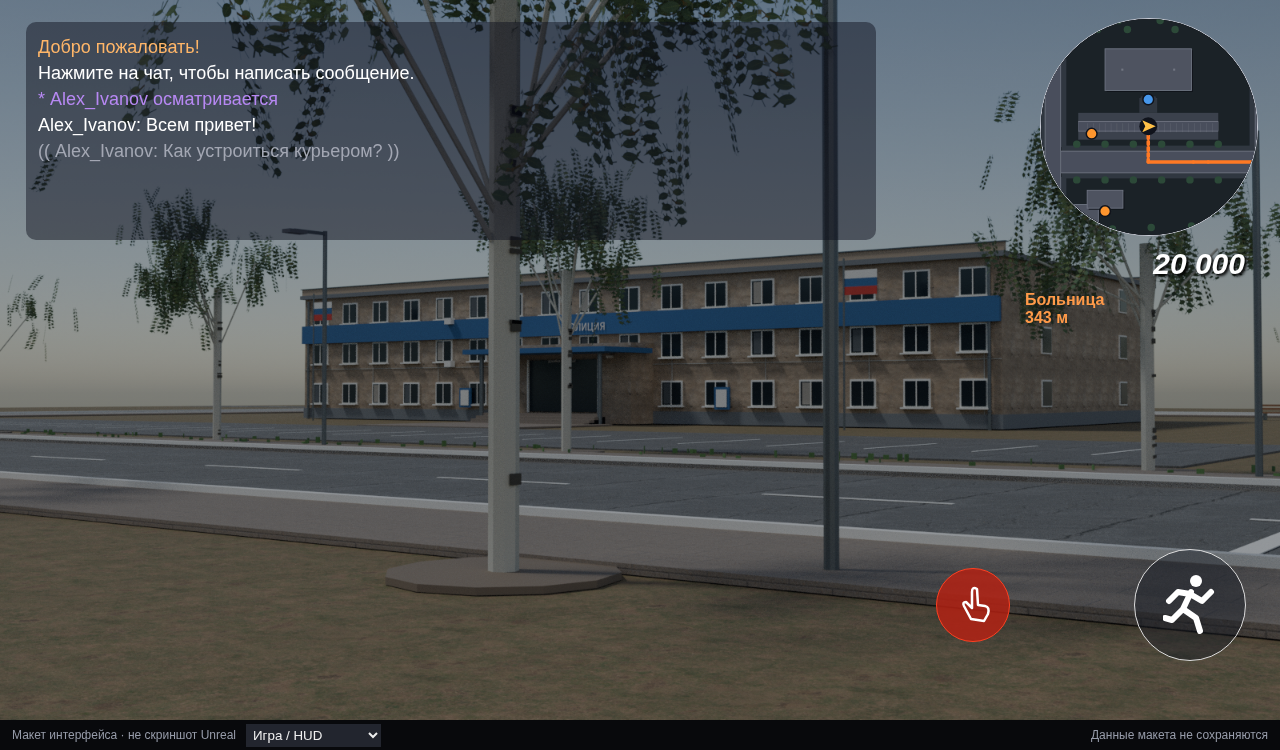
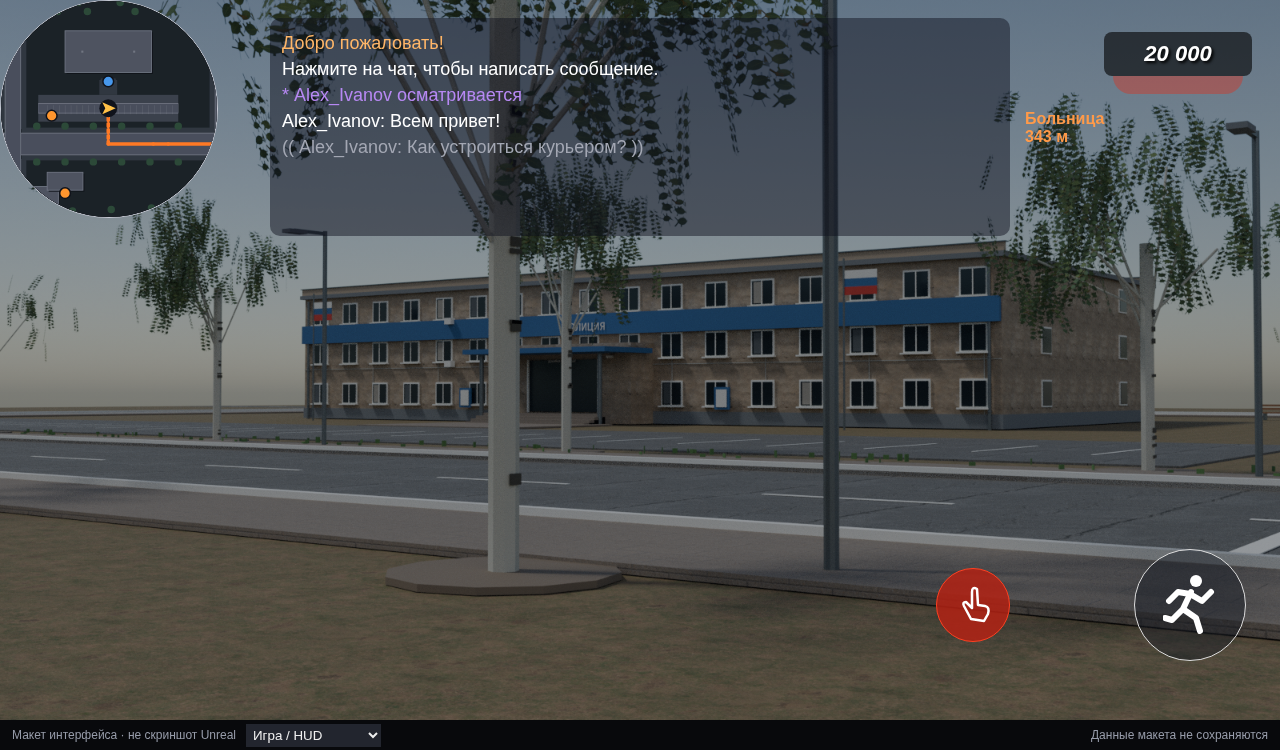
Tighten city steering and reposition HUD and vehicle controls

diff --git a/Assets/UI/InterfacePreview.html b/Assets/UI/InterfacePreview.html
@@ -1,5 +1,6 @@
 <!doctype html><html lang="ru"><meta charset="utf-8"><title>Макет интерфейса</title><style>
 *{box-sizing:border-box}body{margin:0;background:#090a0e;color:white;font:18px Arial,sans-serif;overflow:hidden}button,input{font:inherit}button{cursor:pointer;border:0;color:white;border-radius:10px;background:#292c34;padding:15px 22px;font-weight:700}button:hover{filter:brightness(1.16)}button:active{transform:translateY(1px)}button.primary{background:linear-gradient(105deg,#fb3214,#df1c09)}button:disabled{cursor:default;filter:brightness(.45)}button.selected{box-shadow:inset 0 0 0 2px #f23819;background:#49241f}input{display:block;width:100%;height:76px;margin:0 0 16px;padding:17px 22px;border:1px solid #777a82;border-radius:9px;background:#1c1e23f5;color:white;outline:0;font-size:27px}input:focus{border-color:#f33419}input::placeholder{color:#a2a4aa}.screen{width:1280px;height:720px;position:absolute;transform-origin:top left;overflow:hidden;background:#11151a}.art{background:linear-gradient(#0002,#0002),url('../Branding/CityLiveLoginCity.png') center/cover}.accountart{background:linear-gradient(#0002,#0002),url('../Branding/CityLiveAccountCity.png') center/cover}.spawnart{background:linear-gradient(#050608eb,#050608eb),url('../Branding/CityLiveLoginCity.png') center/cover}.world{background:linear-gradient(#070c1538,#0a0d1822),url('../Maps/PoliceDistrictRealistic/StreetRealistic.png') center/cover}h1{margin:0;font-size:34px}.pageheading{position:absolute;left:52px;top:40px}.identity{position:absolute;width:430px;left:52px;top:276px}.next{position:absolute;right:52px;bottom:44px;width:300px;height:72px;font-size:26px}.account{position:absolute;right:82px;top:218px;width:500px}.account.returning{top:265px}.passwordfield{position:relative}.passwordfield input{padding-right:78px}.eye{position:absolute;right:10px;top:15px;padding:8px 9px;height:46px;display:grid;place-items:center}.account .submit{width:100%;height:72px;margin-top:5px;font-size:26px}.back{display:block;margin:17px auto 0;font-size:17px;padding:8px 16px;font-weight:400}.nick{position:absolute;right:82px;top:156px;width:500px;font-size:24px;font-weight:700}.error{font-size:19px;color:#ff8d77;line-height:1.4;margin-top:18px}.identity .error{position:absolute;top:190px;width:430px}.spawnheading{font-size:34px}.spawncards{position:absolute;left:52px;right:52px;top:189px;height:342px;display:flex;gap:14px}.spawncard{position:relative;flex:1;min-width:0;border:3px solid #535660;border-radius:6px;overflow:hidden;background-size:cover;background-position:center;padding:0;display:grid;place-items:center}.spawncard:after{content:'';position:absolute;inset:0;background:#0007}.spawncard b{position:relative;z-index:1;font-size:23px}.spawncard.selected{border-color:#f33419;box-shadow:0 0 24px #f3341933}.spawnenter{position:absolute;bottom:44px;left:50%;transform:translateX(-50%);width:270px;height:72px;font-size:26px}.mini{position:absolute;top:18px;right:22px;width:218px;height:218px;border:1.5px solid #c9ccd6;border-radius:50%;overflow:hidden;background:#11141a;cursor:pointer}.mini svg{width:100%;height:100%}.chatbox{position:absolute;left:26px;top:22px;width:850px;height:218px;padding:12px;background:#0d101b77;border-radius:10px;font-size:18px;line-height:1.45;cursor:pointer;overflow:hidden}.chatbox .sys{color:#ffb668}.balance{position:absolute;right:35px;top:247px;font-size:30px;font-style:italic;font-weight:800;text-shadow:2px 2px 3px #000}.navsmall{position:absolute;right:30px;top:291px;width:225px;font-size:16px;color:#ff9a49;font-weight:bold}.round{position:absolute;border:1.5px solid #ddd;border-radius:50%;width:112px;height:112px;display:grid;place-items:center;background:#171b2470}.run{right:34px;bottom:59px}.interact{right:calc(24% - 37px);bottom:78px;width:74px;height:74px;border-color:#ff4021;background:#b22214da}.interact svg{width:34px;height:40px}.panel{position:absolute;padding:26px;border-radius:12px;background:#17191ff5}.gps{width:560px;height:650px;left:calc(50% - 280px);top:35px}.gps h1{font-size:29px;margin-bottom:20px}.gps .rows{max-height:490px;overflow:auto;margin:10px 0}.gps .rows.destinations{height:310px}.rows button{display:block;width:100%;padding:14px 16px;text-align:left;margin:8px 0;font-size:21px}.gps footer{display:flex;gap:10px;margin-top:14px}.gps footer button{flex:1;font-size:18px}.rows::-webkit-scrollbar{width:7px}.rows::-webkit-scrollbar-thumb{background:#e73319;border-radius:4px}.darken{position:absolute;inset:0;background:#03050ab3}.close{position:absolute;right:28px;top:24px;font-size:27px;padding:8px 20px;z-index:8}.map{position:absolute;inset:0;background:#11151b}.map svg{width:100%;height:100%;touch-action:none}.maptitle{position:absolute;left:32px;top:26px;font-weight:bold;font-size:24px;pointer-events:none}.mapinfo{position:absolute;right:28px;bottom:28px;width:370px;padding:18px;border-radius:12px;background:#17191ff7}.mapinfo h2{font-size:22px;margin:0 0 12px}.mapinfo p{color:#ff7924;font-size:16px}.mapinfo button{width:100%;font-size:18px}.legendtoggle{position:absolute;left:30px;top:78px;font-size:17px}.opengps{position:absolute;left:30px;top:142px;font-size:20px}.legend{position:absolute;bottom:28px;left:28px;background:#17191ff7;border-radius:12px;padding:18px;font-size:15px;line-height:1.8;display:none}.keyboard{position:absolute;left:0;right:0;bottom:0;height:330px;background:#17191ff2;border-radius:0;padding:10px;display:grid;grid-template-rows:repeat(4,1fr);gap:2px}.keyrow{display:flex;gap:6px}.key{flex:1;border-radius:9px;font-size:22px;padding:3px;min-width:0}.channels{position:absolute;left:16px;right:300px;bottom:418px;display:flex;gap:8px;align-items:center}.channels button{font-size:16px;padding:14px 22px}.channels .history{margin-left:auto}.draft{position:absolute;left:12px;right:12px;bottom:340px;height:66px;background:#17191ff7;border-radius:12px;padding:14px 20px;font-size:27px;white-space:pre;overflow:hidden}.caret{color:#f33419}.chatview .close{left:900px;right:auto;top:22px}.chatview .round,.chatview .navsmall{display:none}.previewbar{position:fixed;height:30px;left:0;right:0;bottom:0;background:#08090c;padding:4px 12px;font:12px Arial;display:flex;align-items:center;gap:10px;color:#969ba9}.previewbar select{background:#22252e;color:#eee;border:0;padding:3px}.previewbar span{margin-left:auto}svg text{font-family:Arial,sans-serif;pointer-events:none}svg .poi{cursor:pointer}
+.mini{left:0;right:auto;top:0}.chatbox{left:50%;transform:translateX(-50%);top:18px;width:740px}.balance{right:28px;top:32px;width:148px;padding:9px 14px;text-align:center;font-size:22px;background:#0009;border-radius:8px}.balance:after{content:'';position:absolute;left:9px;right:9px;top:100%;height:18px;border-radius:0 0 70px 70px;background:#e52b1560}.navsmall{top:110px}.chatview .close{left:auto;right:28px;top:122px}
 </style><main class="screen" id="screen"></main><nav class="previewbar">Макет интерфейса · не скриншот Unreal <select id="scene"><option value="login">Вход</option><option value="password">Регистрация</option><option value="return">Авторизация</option><option value="spawn">Место появления</option><option value="hud">Игра / HUD</option><option value="gps">GPS</option><option value="map">Карта</option><option value="chat">Клавиатура</option></select><span>Данные макета не сохраняются</span></nav><script>
[1 lines of base64/hex data omitted]
 const screen=document.querySelector('#screen'),sceneSelect=document.querySelector('#scene');

diff --git a/Scripts/InterfacePreviewTemplate.html b/Scripts/InterfacePreviewTemplate.html
@@ -1,5 +1,6 @@
 <!doctype html><html lang="ru"><meta charset="utf-8"><title>Макет интерфейса</title><style>
 *{box-sizing:border-box}body{margin:0;background:#090a0e;color:white;font:18px Arial,sans-serif;overflow:hidden}button,input{font:inherit}button{cursor:pointer;border:0;color:white;border-radius:10px;background:#292c34;padding:15px 22px;font-weight:700}button:hover{filter:brightness(1.16)}button:active{transform:translateY(1px)}button.primary{background:linear-gradient(105deg,#fb3214,#df1c09)}button:disabled{cursor:default;filter:brightness(.45)}button.selected{box-shadow:inset 0 0 0 2px #f23819;background:#49241f}input{display:block;width:100%;height:76px;margin:0 0 16px;padding:17px 22px;border:1px solid #777a82;border-radius:9px;background:#1c1e23f5;color:white;outline:0;font-size:27px}input:focus{border-color:#f33419}input::placeholder{color:#a2a4aa}.screen{width:1280px;height:720px;position:absolute;transform-origin:top left;overflow:hidden;background:#11151a}.art{background:linear-gradient(#0002,#0002),url('../Branding/CityLiveLoginCity.png') center/cover}.accountart{background:linear-gradient(#0002,#0002),url('../Branding/CityLiveAccountCity.png') center/cover}.spawnart{background:linear-gradient(#050608eb,#050608eb),url('../Branding/CityLiveLoginCity.png') center/cover}.world{background:linear-gradient(#070c1538,#0a0d1822),url('../Maps/PoliceDistrictRealistic/StreetRealistic.png') center/cover}h1{margin:0;font-size:34px}.pageheading{position:absolute;left:52px;top:40px}.identity{position:absolute;width:430px;left:52px;top:276px}.next{position:absolute;right:52px;bottom:44px;width:300px;height:72px;font-size:26px}.account{position:absolute;right:82px;top:218px;width:500px}.account.returning{top:265px}.passwordfield{position:relative}.passwordfield input{padding-right:78px}.eye{position:absolute;right:10px;top:15px;padding:8px 9px;height:46px;display:grid;place-items:center}.account .submit{width:100%;height:72px;margin-top:5px;font-size:26px}.back{display:block;margin:17px auto 0;font-size:17px;padding:8px 16px;font-weight:400}.nick{position:absolute;right:82px;top:156px;width:500px;font-size:24px;font-weight:700}.error{font-size:19px;color:#ff8d77;line-height:1.4;margin-top:18px}.identity .error{position:absolute;top:190px;width:430px}.spawnheading{font-size:34px}.spawncards{position:absolute;left:52px;right:52px;top:189px;height:342px;display:flex;gap:14px}.spawncard{position:relative;flex:1;min-width:0;border:3px solid #535660;border-radius:6px;overflow:hidden;background-size:cover;background-position:center;padding:0;display:grid;place-items:center}.spawncard:after{content:'';position:absolute;inset:0;background:#0007}.spawncard b{position:relative;z-index:1;font-size:23px}.spawncard.selected{border-color:#f33419;box-shadow:0 0 24px #f3341933}.spawnenter{position:absolute;bottom:44px;left:50%;transform:translateX(-50%);width:270px;height:72px;font-size:26px}.mini{position:absolute;top:18px;right:22px;width:218px;height:218px;border:1.5px solid #c9ccd6;border-radius:50%;overflow:hidden;background:#11141a;cursor:pointer}.mini svg{width:100%;height:100%}.chatbox{position:absolute;left:26px;top:22px;width:850px;height:218px;padding:12px;background:#0d101b77;border-radius:10px;font-size:18px;line-height:1.45;cursor:pointer;overflow:hidden}.chatbox .sys{color:#ffb668}.balance{position:absolute;right:35px;top:247px;font-size:30px;font-style:italic;font-weight:800;text-shadow:2px 2px 3px #000}.navsmall{position:absolute;right:30px;top:291px;width:225px;font-size:16px;color:#ff9a49;font-weight:bold}.round{position:absolute;border:1.5px solid #ddd;border-radius:50%;width:112px;height:112px;display:grid;place-items:center;background:#171b2470}.run{right:34px;bottom:59px}.interact{right:calc(24% - 37px);bottom:78px;width:74px;height:74px;border-color:#ff4021;background:#b22214da}.interact svg{width:34px;height:40px}.panel{position:absolute;padding:26px;border-radius:12px;background:#17191ff5}.gps{width:560px;height:650px;left:calc(50% - 280px);top:35px}.gps h1{font-size:29px;margin-bottom:20px}.gps .rows{max-height:490px;overflow:auto;margin:10px 0}.gps .rows.destinations{height:310px}.rows button{display:block;width:100%;padding:14px 16px;text-align:left;margin:8px 0;font-size:21px}.gps footer{display:flex;gap:10px;margin-top:14px}.gps footer button{flex:1;font-size:18px}.rows::-webkit-scrollbar{width:7px}.rows::-webkit-scrollbar-thumb{background:#e73319;border-radius:4px}.darken{position:absolute;inset:0;background:#03050ab3}.close{position:absolute;right:28px;top:24px;font-size:27px;padding:8px 20px;z-index:8}.map{position:absolute;inset:0;background:#11151b}.map svg{width:100%;height:100%;touch-action:none}.maptitle{position:absolute;left:32px;top:26px;font-weight:bold;font-size:24px;pointer-events:none}.mapinfo{position:absolute;right:28px;bottom:28px;width:370px;padding:18px;border-radius:12px;background:#17191ff7}.mapinfo h2{font-size:22px;margin:0 0 12px}.mapinfo p{color:#ff7924;font-size:16px}.mapinfo button{width:100%;font-size:18px}.legendtoggle{position:absolute;left:30px;top:78px;font-size:17px}.opengps{position:absolute;left:30px;top:142px;font-size:20px}.legend{position:absolute;bottom:28px;left:28px;background:#17191ff7;border-radius:12px;padding:18px;font-size:15px;line-height:1.8;display:none}.keyboard{position:absolute;left:0;right:0;bottom:0;height:330px;background:#17191ff2;border-radius:0;padding:10px;display:grid;grid-template-rows:repeat(4,1fr);gap:2px}.keyrow{display:flex;gap:6px}.key{flex:1;border-radius:9px;font-size:22px;padding:3px;min-width:0}.channels{position:absolute;left:16px;right:300px;bottom:418px;display:flex;gap:8px;align-items:center}.channels button{font-size:16px;padding:14px 22px}.channels .history{margin-left:auto}.draft{position:absolute;left:12px;right:12px;bottom:340px;height:66px;background:#17191ff7;border-radius:12px;padding:14px 20px;font-size:27px;white-space:pre;overflow:hidden}.caret{color:#f33419}.chatview .close{left:900px;right:auto;top:22px}.chatview .round,.chatview .navsmall{display:none}.previewbar{position:fixed;height:30px;left:0;right:0;bottom:0;background:#08090c;padding:4px 12px;font:12px Arial;display:flex;align-items:center;gap:10px;color:#969ba9}.previewbar select{background:#22252e;color:#eee;border:0;padding:3px}.previewbar span{margin-left:auto}svg text{font-family:Arial,sans-serif;pointer-events:none}svg .poi{cursor:pointer}
+.mini{left:0;right:auto;top:0}.chatbox{left:50%;transform:translateX(-50%);top:18px;width:740px}.balance{right:28px;top:32px;width:148px;padding:9px 14px;text-align:center;font-size:22px;background:#0009;border-radius:8px}.balance:after{content:'';position:absolute;left:9px;right:9px;top:100%;height:18px;border-radius:0 0 70px 70px;background:#e52b1560}.navsmall{top:110px}.chatview .close{left:auto;right:28px;top:122px}
 </style><main class="screen" id="screen"></main><nav class="previewbar">Макет интерфейса · не скриншот Unreal <select id="scene"><option value="login">Вход</option><option value="password">Регистрация</option><option value="return">Авторизация</option><option value="spawn">Место появления</option><option value="hud">Игра / HUD</option><option value="gps">GPS</option><option value="map">Карта</option><option value="chat">Клавиатура</option></select><span>Данные макета не сохраняются</span></nav><script>
 const DATA=__MAPDATA__,ROUTES=__ROUTES__;
 const screen=document.querySelector('#screen'),sceneSelect=document.querySelector('#scene');

diff --git a/Source/CityLiveRP/SCityHud.cpp b/Source/CityLiveRP/SCityHud.cpp
@@ -5,6 +5,7 @@
 #include "CityDistrictGameplayComponent.h"
 #include "CitySedan.h"
 #include "CityUiTheme.h"
+#include "SCityBalance.h"
 #include "Widgets/SOverlay.h"
 #include "Widgets/SBoxPanel.h"
 #include "Widgets/Layout/SBox.h"
@@ -23,18 +24,16 @@ void SCityHud::Construct(const FArguments& Args)
     ChildSlot[SNew(SScaleBox).Visibility(EVisibility::SelfHitTestInvisible).Stretch(EStretch::ScaleToFit)
         [SNew(SBox).Visibility(EVisibility::SelfHitTestInvisible).WidthOverride_Lambda([this](){return FOptionalSize(CityUi::CanvasWidth(GetCachedGeometry().GetLocalSize()));}).HeightOverride(720)
             [SNew(SOverlay).Visibility(EVisibility::SelfHitTestInvisible)
-                +SOverlay::Slot().HAlign(HAlign_Right).VAlign(VAlign_Top).Padding(0,18,22,0)
+                +SOverlay::Slot().HAlign(HAlign_Left).VAlign(VAlign_Top).Padding(0,0,0,0)
                 [SNew(SBox).WidthOverride(218).HeightOverride(218)[SNew(SCityMap).Controller(Controller.Get()).Mini(true)]]
-                +SOverlay::Slot().HAlign(HAlign_Left).VAlign(VAlign_Top).Padding(26,22,0,0)
-                [SNew(SBox).WidthOverride(850).HeightOverride(218).Clipping(EWidgetClipping::ClipToBounds)
+                +SOverlay::Slot().HAlign(HAlign_Center).VAlign(VAlign_Top).Padding(0,18,0,0)
+                [SNew(SBox).WidthOverride(740).HeightOverride(218).Clipping(EWidgetClipping::ClipToBounds)
                     [SNew(SButton).ButtonStyle(&ChatStyle).HAlign(HAlign_Left).VAlign(VAlign_Top)
                         .OnClicked_Lambda([this](){Controller->DistrictGameplay->OpenChat();return FReply::Handled();})
                         [SNew(SCityChatLog).District(Controller->DistrictGameplay.Get()).Lines(8).FontSize(18)]]]
-                +SOverlay::Slot().HAlign(HAlign_Right).VAlign(VAlign_Top).Padding(0,247,35,0)
-                [SNew(STextBlock).Visibility(EVisibility::HitTestInvisible).Font(FCoreStyle::GetDefaultFontStyle("BoldItalic",30))
-                    .ColorAndOpacity(FLinearColor::White).ShadowOffset(FVector2D(2,2)).ShadowColorAndOpacity(FLinearColor(0,0,0,.8f))
-                    .Text_Lambda([this](){return FText::FromString(CityUi::Money(Controller->GetBalance(),false));})]
-                +SOverlay::Slot().HAlign(HAlign_Right).VAlign(VAlign_Top).Padding(0,291,30,0)
+                +SOverlay::Slot().HAlign(HAlign_Right).VAlign(VAlign_Top).Padding(0,32,28,0)
+                [SNew(SCityBalance).Controller(Controller.Get())]
+                +SOverlay::Slot().HAlign(HAlign_Right).VAlign(VAlign_Top).Padding(0,110,30,0)
                 [SNew(SBox).WidthOverride(225)[SNew(STextBlock).Visibility(EVisibility::HitTestInvisible).AutoWrapText(true).ColorAndOpacity(CityUi::Orange()).Font(FCoreStyle::GetDefaultFontStyle("Bold",16))
                     .Text_Lambda([this](){return FText::FromString(Controller->DistrictGameplay->NavigationText());})]]
                 +SOverlay::Slot().HAlign(HAlign_Center).VAlign(VAlign_Bottom).Padding(0,0,0,24)

diff --git a/Source/CityLiveRP/SCityChatMenu.cpp b/Source/CityLiveRP/SCityChatMenu.cpp
@@ -5,6 +5,7 @@
 #include "CityDistrictGameplayComponent.h"
 #include "CityChatInput.h"
 #include "CityUiTheme.h"
+#include "SCityBalance.h"
 #include "Widgets/SBoxPanel.h"
 #include "Widgets/SOverlay.h"
 #include "Widgets/Layout/SBox.h"
@@ -60,16 +61,15 @@ void SCityV2Menu::ChatOverlay()
     ChatChannel=District->ChatChannel;HistoryIndex=District->SentMessages.Num();
     ChildSlot[SNew(SScaleBox).Stretch(EStretch::ScaleToFit)[SNew(SBox).WidthOverride_Lambda([this](){return FOptionalSize(CityUi::CanvasWidth(GetCachedGeometry().GetLocalSize()));}).HeightOverride(720)
         [SNew(SOverlay)
-            +SOverlay::Slot().HAlign(HAlign_Right).VAlign(VAlign_Top).Padding(0,18,22,0)
+            +SOverlay::Slot().HAlign(HAlign_Left).VAlign(VAlign_Top).Padding(0,0,0,0)
             [SNew(SBox).WidthOverride(218).HeightOverride(218).Visibility(EVisibility::HitTestInvisible)[SNew(SCityMap).Controller(Controller.Get()).Mini(true)]]
-            +SOverlay::Slot().HAlign(HAlign_Left).VAlign(VAlign_Top).Padding(26,22,0,0)
-            [SNew(SBox).WidthOverride(850).HeightOverride(218).Clipping(EWidgetClipping::ClipToBounds)
+            +SOverlay::Slot().HAlign(HAlign_Center).VAlign(VAlign_Top).Padding(0,18,0,0)
+            [SNew(SBox).WidthOverride(740).HeightOverride(218).Clipping(EWidgetClipping::ClipToBounds)
                 [SNew(SBorder).BorderImage(&FrameBrush).Padding(14)
                     [SNew(SCityChatLog).District(District).Lines(8).FontSize(18)]]]
-            +SOverlay::Slot().HAlign(HAlign_Right).VAlign(VAlign_Top).Padding(0,244,32,0)
-            [SNew(STextBlock).Text_Lambda([this](){return FText::FromString(CityUi::Money(Controller->GetBalance(),false));})
-                .Font(FCoreStyle::GetDefaultFontStyle("BoldItalic",30)).ShadowOffset(FVector2D(2,2)).ShadowColorAndOpacity(FLinearColor(0,0,0,.8f))]
-            +SOverlay::Slot().HAlign(HAlign_Left).VAlign(VAlign_Top).Padding(900,22,0,0)
+                +SOverlay::Slot().HAlign(HAlign_Right).VAlign(VAlign_Top).Padding(0,32,28,0)
+                [SNew(SCityBalance).Controller(Controller.Get())]
+                +SOverlay::Slot().HAlign(HAlign_Right).VAlign(VAlign_Top).Padding(0,122,28,0)
             [SNew(SButton).IsFocusable(false).ButtonStyle(&SecondaryStyle).OnClicked_Lambda([this](){Controller->CloseCityMenu();return FReply::Handled();})[SNew(STextBlock).Text(FText::FromString(TEXT("×"))).Font(FCoreStyle::GetDefaultFontStyle("Bold",27))]]
             +SOverlay::Slot().HAlign(HAlign_Fill).VAlign(VAlign_Bottom).Padding(16,0,300,418)
             [SNew(SHorizontalBox)

diff --git a/Source/CityLiveRP/SCityBalance.h b/Source/CityLiveRP/SCityBalance.h
@@ -1,0 +1,38 @@
+#pragma once
+#include "Widgets/SCompoundWidget.h"
+#include "Widgets/Layout/SBox.h"
+#include "Widgets/Layout/SBorder.h"
+#include "Widgets/SOverlay.h"
+#include "Widgets/Text/STextBlock.h"
+#include "Rendering/DrawElements.h"
+#include "CityLiveRPPlayerController.h"
+#include "CityUiTheme.h"
+
+class SCityBalance : public SCompoundWidget
+{
+public:
+    SLATE_BEGIN_ARGS(SCityBalance){} SLATE_ARGUMENT(ACityLiveRPPlayerController*,Controller) SLATE_END_ARGS()
+    void Construct(const FArguments& Args)
+    {
+        Controller=Args._Controller;
+        ChildSlot[SNew(SBox).WidthOverride(148).HeightOverride(66)
+            [SNew(SOverlay)
+                +SOverlay::Slot().VAlign(VAlign_Top)
+                [SNew(SBorder).BorderImage(&Plate).Padding(FMargin(14,9))
+                    [SNew(STextBlock).Justification(ETextJustify::Center).Font(FCoreStyle::GetDefaultFontStyle("BoldItalic",22))
+                        .ColorAndOpacity(FLinearColor::White).Text_Lambda([this](){return FText::FromString(CityUi::Money(Controller.IsValid()?Controller->GetBalance():0,false));})]]]];
+    }
+    virtual int32 OnPaint(const FPaintArgs& Args,const FGeometry& G,const FSlateRect& Clip,FSlateWindowElementList& Out,int32 Layer,const FWidgetStyle& Style,bool Enabled) const override
+    {
+        for(int I=0;I<18;++I)
+        {
+            const double Y=I/18.;const double Half=65*FMath::Sqrt(1-Y*Y);
+            TArray<FVector2D> Line;Line.Add(FVector2D(74-Half,46+I));Line.Add(FVector2D(74+Half,46+I));
+            FSlateDrawElement::MakeLines(Out,Layer,G.ToPaintGeometry(),Line,ESlateDrawEffect::None,FLinearColor(.8f,.012f,.004f,.38f),true,1.3f);
+        }
+        return SCompoundWidget::OnPaint(Args,G,Clip,Out,Layer+1,Style,Enabled);
+    }
+private:
+    TWeakObjectPtr<ACityLiveRPPlayerController> Controller;
+    FSlateRoundedBoxBrush Plate{FLinearColor(0,0,0,.58f),8};
+};

diff --git a/Tests/InterfacePreviewBrowserTest.py b/Tests/InterfacePreviewBrowserTest.py
@@ -31,11 +31,12 @@ async def main():
   await page.locator('[data-spawn=Last]').click();assert await page.evaluate('chosenSpawn')=='Last'
   await page.locator('.spawnenter').click();assert await page.evaluate('scene')=='hud'
   assert await page.locator('.balance').inner_text()=='20 000'
-  assert await page.locator('.balance').evaluate("e=>getComputedStyle(e).backgroundColor")=='rgba(0, 0, 0, 0)'
+  assert await page.locator('.balance').evaluate("e=>getComputedStyle(e).backgroundColor")!='rgba(0, 0, 0, 0)'
   assert not await page.get_by_role('button',name='GPS',exact=True).count()
   assert 'CITYLIVE' not in await page.locator('#screen').inner_text()
   mini=await page.locator('.mini').bounding_box();chat=await page.locator('.chatbox').bounding_box()
-  assert mini['x']>chat['x']+chat['width'] and chat['height']==218 and mini['width']==218
+  assert mini['x']==mini['y']==0 and chat['height']==218 and mini['width']==218
+  assert abs(chat['x']+chat['width']/2-640)<1
   await page.locator('.mini').click()
   assert not await page.locator('.mapinfo').count()
   assert 'ВЫБЕРИТЕ ТОЧКУ' not in await page.locator('#screen').inner_text()
@@ -63,6 +64,6 @@ async def main():
   assert abs(rect['x'])<1 and abs(rect['width']-1600)<1 and abs(rect['y']+rect['height']-720)<1,rect
   await page.screenshot(path=str(out/'Preview_WideKeyboard.png'))
   assert not errors,errors
-  print('PASS: separate fields, full-screen password scene, five spawn cards, plain balance, right mini-map, map/GPS routing, full-width RU/EN keyboard; 10 review images')
+  print('PASS: separate fields, full-screen password scene, five spawn cards, compact balance, corner mini-map, map/GPS routing, full-width RU/EN keyboard; 10 review images')
   await browser.close()
 asyncio.run(main())

diff --git a/Source/CityLiveRP/CitySedan.cpp b/Source/CityLiveRP/CitySedan.cpp
@@ -553,7 +553,7 @@ void ACitySedan::UpdateSeatedPose(ACityLiveRPCharacter* Occupant,int32 Seat)
 void ACitySedan::Tick(float DeltaTime)
 {
     Super::Tick(DeltaTime);
-    EntryCameraBlend = FMath::FInterpTo(EntryCameraBlend, EnteringCharacter ? 1.f : 0.f, DeltaTime, 5.f);
+    EntryCameraBlend = FMath::FInterpTo(EntryCameraBlend, EnteringCharacter ? 1.f : 0.f, DeltaTime, 7.f);
     if (EnteringCharacter)
     {
         UpdateSeatedPose(Driver, -1);
@@ -571,10 +571,10 @@ void ACitySedan::Tick(float DeltaTime)
         KeyboardSteering += DrivingPlayer->IsInputKeyDown(EKeys::D) ? 1.f : 0.f;
         KeyboardSteering -= DrivingPlayer->IsInputKeyDown(EKeys::A) ? 1.f : 0.f;
     }
-    SmoothedSteering = FMath::FInterpTo(SmoothedSteering, FMath::Clamp(Steering + KeyboardSteering, -1.f, 1.f), DeltaTime, 5.f);
+    SmoothedSteering = FMath::FInterpTo(SmoothedSteering, FMath::Clamp(Steering + KeyboardSteering, -1.f, 1.f), DeltaTime, 7.f);
     const bool bDrift = Driver && (bDriftHeld || (DrivingPlayer && DrivingPlayer->IsInputKeyDown(EKeys::SpaceBar)));
     const float DriftTarget = bDrift ? CityLiveDriving::DriftStrength(Speed) : 0.f;
-    DriftAmount = FMath::FInterpTo(DriftAmount, DriftTarget, DeltaTime, 5.f);
+    DriftAmount = FMath::FInterpTo(DriftAmount, DriftTarget, DeltaTime, 7.f);
     TickVehiclePhysics(DeltaTime, Pedals.Throttle || KeyboardGas, Pedals.Brake || KeyboardBrake);
     for (UStaticMeshComponent* Wheel : Wheels)
         Wheel->AddLocalRotation(FRotator(0, -FMath::RadiansToDegrees(Speed * DeltaTime / 32.f), 0));

diff --git a/Tests/CitySedanDynamicsTest.cpp b/Tests/CitySedanDynamicsTest.cpp
@@ -9,7 +9,7 @@ int main()
     for (float Speed : {0.f, 100.f, 350.f, 1000.f, 2000.f, 3000.f, -400.f})
     {
         const float Rate = CityLiveDriving::YawRateRadians(1.f, Speed);
-        assert(std::abs(Rate * Speed) <= 680.01f);
+        assert(std::abs(Rate * Speed) <= 1400.01f);
         assert(std::abs(Rate + CityLiveDriving::YawRateRadians(-1.f, Speed)) < .0001f);
         assert(CityLiveDriving::YawRateRadians(0.f, Speed) == 0.f);
         assert(Rate * Speed >= 0.f);
@@ -20,6 +20,15 @@ int main()
     for (float Speed : {-400.f,350.f,1000.f,3000.f})
         assert(std::abs(CityLiveDriving::YawRateRadians(.1f,Speed) -
             .1f*CityLiveDriving::YawRateRadians(1.f,Speed)) < .00001f);
+    // At 36 km/h the commanded full-lock radius is now about 7.1 m,
+    // compared with the previous 14.7 m. Both turn directions and reverse agree.
+    for(float Speed:{-1000.f,1000.f,1500.f})
+    {
+        const float Radius=std::abs(Speed/CityLiveDriving::YawRateRadians(1.f,Speed));
+        const float PreviousRadius=Speed*Speed/680.f;
+        assert(Radius<PreviousRadius*.55f);
+    }
+    assert(CityLiveDriving::YawRateRadians(1.f,0.f)==0.f);
     float SlowFps = 0.f, FastFps = 0.f;
     for (int I = 0; I < 60; ++I) SlowFps = AdvanceSpeed(SlowFps, true, true, false, 1.f / 30.f);
     for (int I = 0; I < 240; ++I) FastFps = AdvanceSpeed(FastFps, true, true, false, 1.f / 120.f);

diff --git a/Source/CityLiveRP/CitySedanDynamics.h b/Source/CityLiveRP/CitySedanDynamics.h
@@ -22,12 +22,10 @@ constexpr float DirectionChangeSpeed = 10.f;
 inline float YawRateRadians(float Steering, float Speed)
 {
     constexpr float DegreesToRadians = .01745329252f;
-    const float LowSpeedRate = 65.f * DegreesToRadians *
-        std::clamp(Speed / 350.f, -1.f, 1.f);
-    // Allow slightly tighter urban turns, tapering back to the original 0.6 g
-    // bound at top speed so grip and steering do not fight.
+    const float LowSpeedRate = std::copysign(std::min(std::abs(Speed) / 300.f,110.f * DegreesToRadians),Speed);
+    // Tighter city turns; keep the previous high-speed bound.
     const float HighwayBlend = std::clamp((std::abs(Speed) - 1500.f) / 1500.f, 0.f, 1.f);
-    const float Limit = (680.f - 80.f * HighwayBlend) / std::max(std::abs(Speed), 350.f);
+    const float Limit = (1400.f - 800.f * HighwayBlend) / std::max(std::abs(Speed), 350.f);
     // Apply the stick after the speed limit: a small touch stays a small turn,
     // instead of reaching full cornering force prematurely at high speed.
     return std::clamp(Steering, -1.f, 1.f) * std::clamp(LowSpeedRate, -Limit, Limit);

diff --git a/Source/CityLiveRP/CityTouchLayout.h b/Source/CityLiveRP/CityTouchLayout.h
@@ -6,6 +6,6 @@ struct Layout{double LeftX,LeftY,RightX,RightY,Radius,InteractX,InteractY,RunHit
 inline Layout Build(double Width,double Height,bool Vehicle)
 {
     const double R=std::min(Width,Height)*.12;
-    return {Width*.18,Height*.76,Width*(Vehicle?.88:.93),Height*(Vehicle?.80:.84),R,Width*.76,Height*.84,R*(Vehicle?1:.70),R*(Vehicle?.85:.65)};
+    return {Width*.18,Height*.76,Width*(Vehicle?.91:.93),Height*(Vehicle?.80:.84),R,Width*.76,Height*.84,R*(Vehicle?1:.70),R*(Vehicle?.85:.65)};
 }
 }

diff --git a/Docs/OrangeInterface.md b/Docs/OrangeInterface.md
@@ -38,11 +38,18 @@
 
 ## HUD, карта и чат
 
-Мини-карта увеличена со 184 до 218 единиц и перенесена в правый верхний угол.
-Внутри нет буквенных подсказок. Ниже — только число баланса, свободным белым
-курсивным текстом с тенью: без рамки, значка, валюты и кнопок GPS/карты над ним.
-Чат слева увеличен до 850×218, видны до восьми строк. Повторяющееся название игры
-убрано из HUD и заголовков диалогов. Уменьшенная кнопка с рукой красная.
+Мини-карта размером 218 размещена в самом левом верхнем углу. Чат расположен
+по центру сверху, размер 740×218, до восьми строк. Баланс справа уменьшен до
+шрифта 22: полупрозрачная чёрная плашка и красный полукруг снизу, без валюты.
+Повторяющееся название игры убрано. Кнопки управления автомобилем сдвинуты
+вправо; область плавающего джойстика сохранена.
+
+На скорости 36 км/ч расчётный радиус полного поворота уменьшен с 14,7 до 7,1 м.
+Предел на максимальной скорости сохранён. Это проверка управляющей формулы;
+фактический радиус, сцепление и устойчивость требуют проверки физики в игре.
+Посадка пока сохраняет прежние анимации и длительность: присланный видеофайл
+превышает лимит передачи 32 МБ, для точного повторения нужен доступный фрагмент.
+Передача голоса между игроками пока не реализована; она требует сетевого транспорта.
 
 Нажатие на мини-карту открывает карту. На ней есть GPS и раскрываемая легенда.
 Кнопки «Я», +/− и постоянные инструкции выбора точки убраны. Карта по-прежнему
